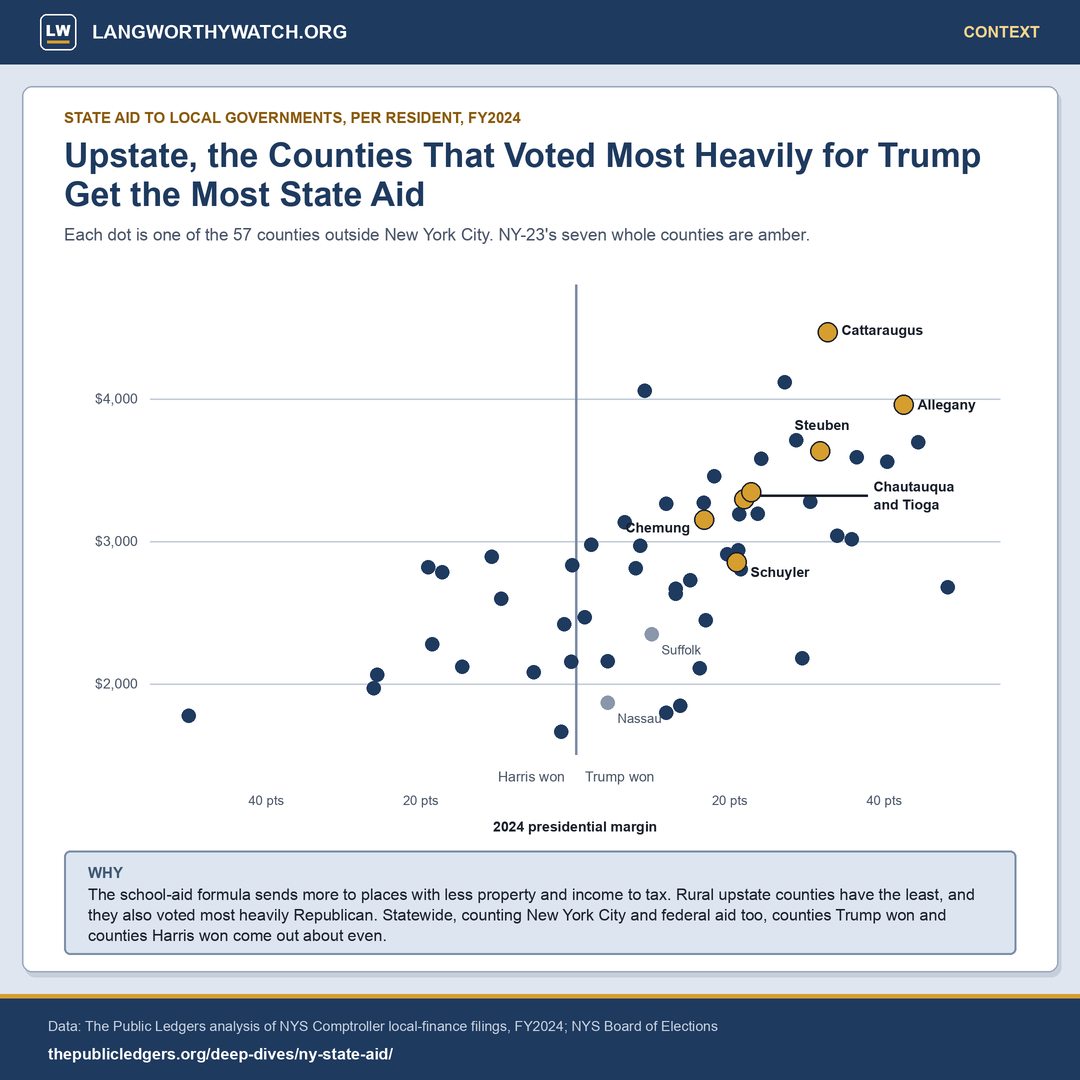
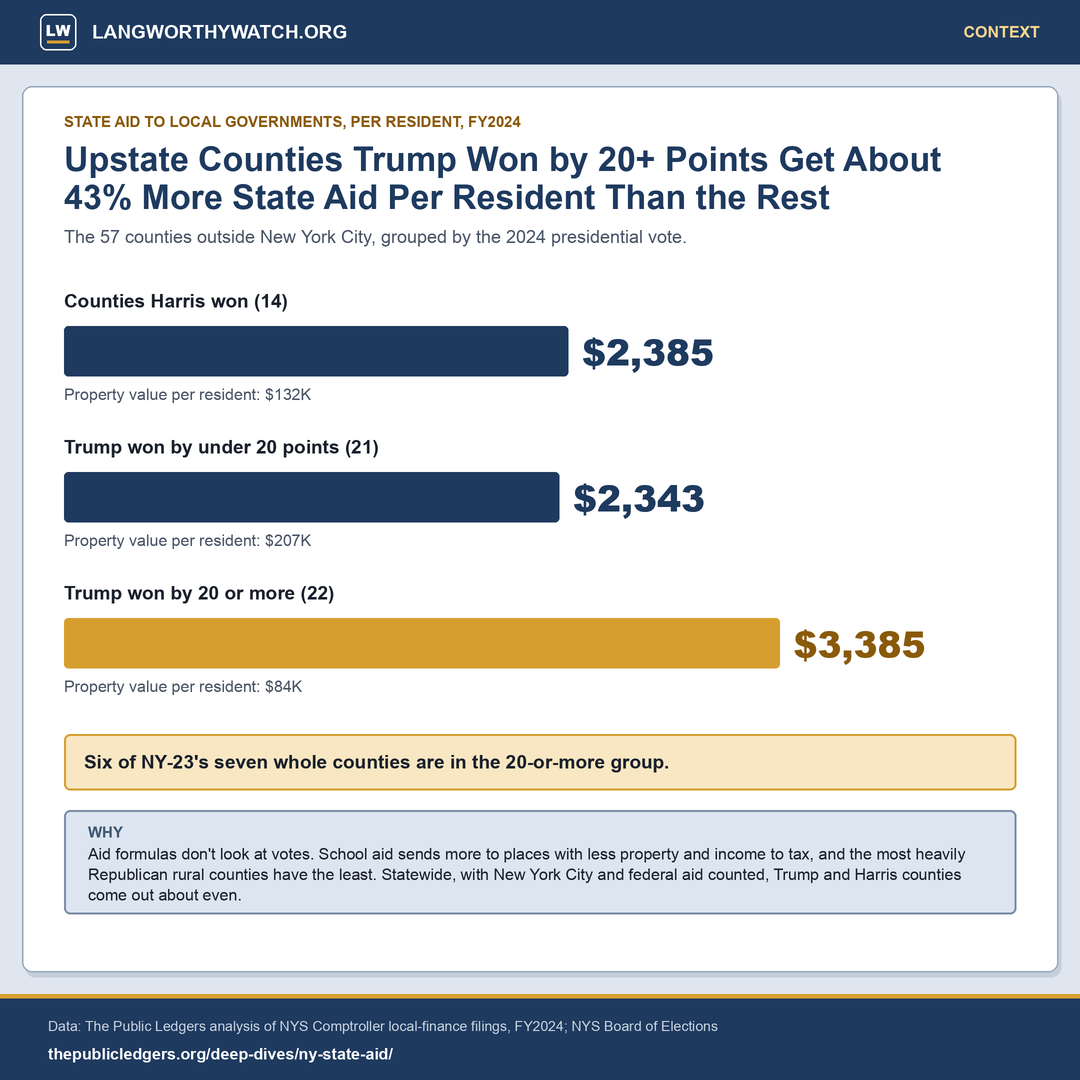
social: state aid context card v2 (three bars by vote margin) and caption v2

diff --git a/social-media/create_state_aid_vote_card.py b/social-media/create_state_aid_vote_card.py
@@ -1,77 +1,56 @@
 #!/usr/bin/env python3
-"""Context post: State aid per resident vs. 2024 presidential margin, 57 counties outside NYC (FY2024).
-Data: The Public Ledgers, ny-state-aid deep dive, county table FY2024 (thepublicledgers.org/data/ny_state_aid_counties_2024.csv,
-retained in research/sources/aid-comparison-2026-11-11/). Indicative county figures; no causal reading."""
+"""Context post v2: State aid per resident by 2024 presidential margin, three groups of the 57 counties outside NYC (FY2024).
+Data: The Public Ledgers ny-state-aid county table FY2024 (retained in research/sources/aid-comparison-2026-11-11/).
+Groups computed population-weighted from the county table (indicative; the 20-point cut is a reporting choice, shown
+against a five-bin breakdown in the research README). v1 was a 57-dot scatter."""
 import csv, os, sys
 sys.path.insert(0, os.path.dirname(os.path.abspath(__file__)))
-from lib.card_v2 import (Card, NAVY, INK, AMBER, AMBER_TXT, GRAY, LINE, SLATE, SLATE_TINT, SLATE_LINE, WHITE,
-                         CONTENT_TOP, CONTENT_BOTTOM, FRAME_INSET)
+from lib.card_v2 import (Card, NAVY, INK, AMBER, AMBER_TXT, AMBER_TINT, GRAY, LINE, SLATE, SLATE_TINT, SLATE_LINE,
+                         CONTENT_BOTTOM, FRAME_INSET)
 ROOT = os.path.dirname(os.path.dirname(os.path.abspath(__file__)))
 rows = [r for r in csv.DictReader(open(os.path.join(ROOT, "research/sources/aid-comparison-2026-11-11/tpl_ny_state_aid_counties_2024.csv")))
         if r["name"] != "New York City"]
-NY23 = {"Allegany County", "Cattaraugus County", "Chautauqua County", "Chemung County", "Schuyler County", "Steuben County", "Tioga County"}
-LI = {"Nassau County", "Suffolk County"}
+f = lambda r, k: float(r[k])
+def agg(sel, k):
+    pop = sum(f(r, "pop") for r in sel); return sum(f(r, k) * f(r, "pop") for r in sel) / pop
+groups = [("Counties Harris won", [r for r in rows if f(r, "margin") <= 0], NAVY),
+          ("Trump won by under 20 points", [r for r in rows if 0 < f(r, "margin") < 20], NAVY),
+          ("Trump won by 20 or more", [r for r in rows if f(r, "margin") >= 20], AMBER)]
+vals = [(lab, len(sel), agg(sel, "state"), agg(sel, "fv"), col) for lab, sel, col in groups]
+hi = vals[2][2]
+rest = agg([r for r in rows if f(r, "margin") < 20], "state")      # every other upstate county, population-weighted
+pct = round((hi / rest - 1) * 100)
 
 c = Card()
-top = c.top_bar("CONTEXT") + FRAME_INSET
-y = top + 26
+y = c.top_bar("CONTEXT") + FRAME_INSET + 30
 c.text(64, y, "STATE AID TO LOCAL GOVERNMENTS, PER RESIDENT, FY2024", size=15, bold=True, fill=AMBER_TXT, anchor="lt")
 y += 30
-y = c.wrap(64, y, "Upstate, the Counties That Voted Most Heavily for Trump Get the Most State Aid", 952, size=34, bold=True, fill=NAVY, leading=1.15)
+y = c.wrap(64, y, f"Upstate Counties Trump Won by 20+ Points Get About {pct}% More State Aid Per Resident Than the Rest", 952, size=34, bold=True, fill=NAVY, leading=1.12)
 y += 8
-y = c.wrap(64, y, "Each dot is one of the 57 counties outside New York City. NY-23's seven whole counties are amber.", 952, size=17, fill=GRAY)
+y = c.wrap(64, y, "The 57 counties outside New York City, grouped by the 2024 presidential vote.", 952, size=18, fill=GRAY)
+y += 40
 
-# plot area
-px0, px1 = 150, 1000
-py0, py1 = y + 34, y + 34 + 470
-xmin, xmax = -55, 55
-ymin, ymax = 1500, 4800
-X = lambda m: px0 + (m - xmin) / (xmax - xmin) * (px1 - px0)
-Y = lambda v: py1 - (v - ymin) / (ymax - ymin) * (py1 - py0)
-for v in (2000, 3000, 4000):
-    c.rect(px0, Y(v), px1, Y(v) + 1, fill=LINE)
-    c.text(px0 - 12, Y(v), f"${v:,}", size=14, fill=GRAY, anchor="rm")
-c.rect(X(0), py0, X(0) + 2, py1, fill=SLATE_LINE)
-c.text(X(0) - 10, py1 + 22, "Harris won", size=14, fill=GRAY, anchor="rm")
-c.text(X(0) + 10, py1 + 22, "Trump won", size=14, fill=GRAY, anchor="lm")
-for t in (-40, -20, 20, 40):
-    c.text(X(t), py1 + 46, f"{abs(t)} pts", size=13, fill=GRAY, anchor="mm")
-c.text((px0 + px1) / 2, py1 + 72, "2024 presidential margin", size=14, bold=True, fill=INK, anchor="mm")
-# dots: others first, then NY-23 on top
-def dot(r, fill, rad, outline=None):
-    x, yy = X(float(r["margin"])), Y(float(r["state"]))
-    c.d.ellipse([c._p(x - rad), c._p(yy - rad), c._p(x + rad), c._p(yy + rad)], fill=fill,
-                outline=outline, width=c._p(1.5) if outline else 0)
-for r in rows:
-    if r["name"] not in NY23:
-        dot(r, NAVY if r["name"] not in LI else "#8A97AA", 7)
-for r in rows:
-    if r["name"] in NY23:
-        dot(r, AMBER, 10, outline=INK)
-labels = {"Cattaraugus County": (14, -2, "lm"), "Allegany County": (14, 0, "lm"), "Steuben County": (2, -26, "mm"),
-          "Chemung County": (-14, 8, "rm"), "Schuyler County": (14, 10, "lm")}
-for r in rows:
-    if r["name"] in labels:
-        dx, dy, an = labels[r["name"]]
-        c.text(X(float(r["margin"])) + dx, Y(float(r["state"])) + dy, r["name"].replace(" County", ""), size=14, bold=True, fill=INK, anchor=an)
-# Chautauqua and Tioga sit together near +22 pts, ~$3,300: one leader-line label
-ct = [r for r in rows if r["name"] in ("Chautauqua County", "Tioga County")]
-cx = sum(X(float(r["margin"])) for r in ct) / 2; cy = sum(Y(float(r["state"])) for r in ct) / 2
-c.rect(cx + 12, cy - 1, cx + 120, cy + 1, fill=INK)
-c.text(cx + 126, cy - 9, "Chautauqua", size=14, bold=True, fill=INK, anchor="lm")
-c.text(cx + 126, cy + 9, "and Tioga", size=14, bold=True, fill=INK, anchor="lm")
-for r in rows:
-    if r["name"] in LI:
-        c.text(X(float(r["margin"])) + 10, Y(float(r["state"])) + 16, r["name"].replace(" County", ""), size=13, fill=GRAY, anchor="lm")
-y = py1 + 96
-
-# what it does and doesn't mean
-s_h = 104
-c.rect(64, y, c.w - 64, y + s_h, fill=SLATE_TINT, outline=SLATE_LINE, width=2, radius=6)
+bx0, bx1 = 64, c.w - 64 - 170
+unit = (bx1 - bx0) / 3700
+for lab, n, v, fv, col in vals:
+    c.text(bx0, y, f"{lab} ({n})", size=19, bold=True, fill=INK, anchor="lt")
+    y += 32
+    c.rect(bx0, y, bx0 + v * unit, y + 50, fill=col, radius=4)
+    c.text(bx0 + v * unit + 14, y + 25, f"${v:,.0f}", size=36, impact=True, fill=NAVY if col == NAVY else AMBER_TXT, anchor="lm")
+    y += 62
+    c.text(bx0, y, f"Property value per resident: ${fv/1000:,.0f}K", size=16, fill=GRAY, anchor="lt")
+    y += 52
+y += 2
+c.rect(64, y, c.w - 64, y + 56, fill=AMBER_TINT, outline=AMBER, width=2, radius=6)
+c.text(84, y + 28, "Six of NY-23's seven whole counties are in the 20-or-more group.", size=19, bold=True, fill=INK, anchor="lm")
+y += 76
+fair_h = 104
+c.rect(64, y, c.w - 64, y + fair_h, fill=SLATE_TINT, outline=SLATE_LINE, width=2, radius=6)
 c.text(88, y + 22, "WHY", size=15, bold=True, fill=SLATE, anchor="lm")
-c.wrap(88, y + 38, "The school-aid formula sends more to places with less property and income to tax. Rural upstate counties have the least, and they also voted most heavily Republican. Statewide, counting New York City and federal aid too, counties Trump won and counties Harris won come out about even.",
+c.wrap(88, y + 38, "Aid formulas don't look at votes. School aid sends more to places with less property and income to tax, and the most heavily Republican rural counties have the least. Statewide, with New York City and federal aid counted, Trump and Harris counties come out about even.",
        c.w - 176, size=16, fill=INK, leading=1.28)
+assert y + fair_h < CONTENT_BOTTOM - 6, (y + fair_h, CONTENT_BOTTOM)
 c.foot("Data: The Public Ledgers analysis of NYS Comptroller local-finance filings, FY2024; NYS Board of Elections",
        "thepublicledgers.org/deep-dives/ny-state-aid/")
-assert y + s_h < CONTENT_BOTTOM - 8, (y + s_h, CONTENT_BOTTOM)
 c.save(os.path.join(ROOT, "social-media/state_aid_vote_card.png"), to_desktop=True)
+print("pct", pct, "rest", round(rest), [(v[0], round(v[2]), round(v[3])) for v in vals])

diff --git a/social-media/state_aid_vote_post.md b/social-media/state_aid_vote_post.md
@@ -1,12 +1,12 @@
-# DRAFT Nov 11, 2026 (context post; no entry; data from The Public Ledgers ny-state-aid deep dive; NY-23 seven-county figure is a derived, indicative number the user approved for this post)
-# Card: state_aid_vote_card.png (create_state_aid_vote_card.py, v2 frame with a custom scatter)
+# DRAFT Nov 11, 2026 (context post v2, bar card; no entry; data from The Public Ledgers ny-state-aid deep dive; NY-23 seven-county figure is a derived, indicative number the user approved for this post)
+# Card: state_aid_vote_card.png (create_state_aid_vote_card.py, v2 frame with a three bars by 2024 margin)
 
-Upstate, the counties that voted most heavily for Trump get the most state aid per resident. NY-23's counties are near the top.
+Upstate counties that Trump won by 20 or more points get about 43% more state aid per resident than the rest of upstate. Six of NY-23's seven counties are in that group.
 
-→ In fiscal 2024, Cattaraugus County received more state aid per resident than any other county outside New York City. Allegany ranked fourth and Steuben seventh.
-→ NY-23's seven whole counties averaged about $3,568 per resident, against $2,498 for the rest of upstate.
-→ Aid formulas don't look at votes. State school aid, about three-quarters of the total, is written to send more to districts with less property wealth and income. NY-23's counties have about half the property value per resident of the rest of upstate.
-→ Statewide, counting New York City and federal aid too, counties Trump won and counties Harris won come out about even: $3,325 and $3,404 per resident.
+→ Fiscal 2024 state aid to local governments, per resident: $3,385 in those 22 counties, $2,385 in the counties Harris won, and $2,343 in the counties Trump won by less.
+→ The difference tracks property wealth. Aid formulas don't look at votes. School aid, about three-quarters of the total, sends more to places with less to tax. The 20-point counties average $84,000 in property per resident; the counties Trump won narrowly, including Long Island's suburbs, average $207,000.
+→ Cattaraugus County gets more state aid per resident than any other county outside New York City.
+→ Statewide, counting New York City and federal aid too, counties Trump won and counties Harris won come out about even.
 
 Worth knowing the next time the question of who gets what from Albany comes up.
 

diff --git a/research/sources/aid-comparison-2026-11-11/README.md b/research/sources/aid-comparison-2026-11-11/README.md
@@ -27,3 +27,17 @@ Conclusion: do not publish a district ranking from these files.
 
 ## 3. His statements
 Searched: 149 press releases (Apr 2025 to Sep 2026, ../ec-record-2026-10/activity/press-releases/) and the transcripts in research/transcripts/. No statement found claiming Albany or downstate shortchanges NY-23. His recurring line is that he will make sure the region "gets its fair share of federal resources" (the aviation-grants, Ellicott water and Corning boiler releases). In a July 15, 2026 reel, an Allegany County official said "the chips are rigged against rural communities". Those were the official's words, not his.
+
+## 4. Aid by 2024 vote margin, upstate (for the Nov 11 context card)
+Population-weighted State aid per resident, FY2024, 57 counties outside NYC:
+| Group | Counties | State aid | Property value per resident |
+|---|---|---|---|
+| Harris won | 14 | $2,385 | $132,160 |
+| Trump by under 10 | 9 | $2,287 | $231,914 |
+| Trump by 10-20 | 12 | $2,515 | $128,756 |
+| Trump by 20-30 | 12 | $3,293 | $83,746 |
+| Trump by 30+ | 10 | $3,554 | $85,288 |
+The card uses three groups: Harris won $2,385; Trump by under 20, $2,343 (this group includes Nassau, +4.2, and Suffolk, +9.9); Trump by 20 or more, $3,385. All counties under 20 points combined: $2,364, so the 20+ group gets 43% more. The 20-point cut is a reporting choice. The five-group table shows the step falls between 20 and 30 points, and the cut was not tuned to maximize the gap.
+Rank correlation (Spearman) between Trump margin and State aid per resident: +0.67 (State + federal: +0.64). This is not a Public Ledger CLAIMS row; it is indicative.
+Caveat carried from the Public Ledger: residual association remains after controls (county model +$90.4 per 10 points, HC3 p = 0.0025), so "formulas don't look at votes" is accurate but "it's only wealth" would overstate. The caption says the difference "tracks property wealth."
+v1 of the card (57-dot scatter) was replaced because it needed two axes decoded and had no single number.
